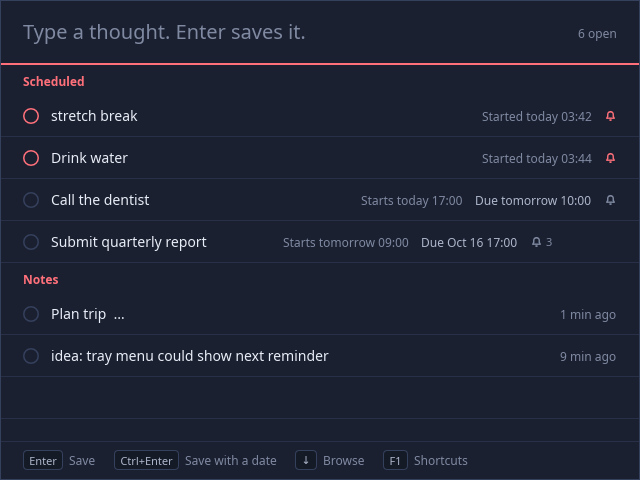
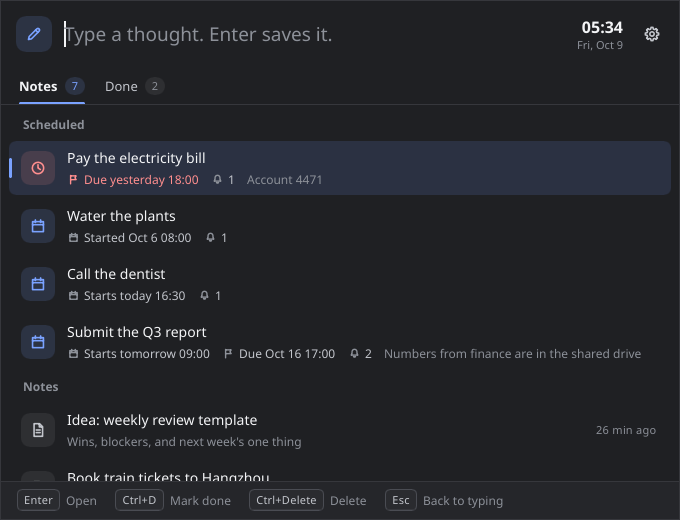
Update README and screenshots for the redesign

diff --git a/README.md b/README.md
@@ -10,29 +10,39 @@ about 25 MB of memory while it waits, and no GPU required.
 ## What it does
 
 - **One key from anywhere.** `Ctrl+Alt+Shift+N` (⌘⌥⇧N on macOS) opens Wisp with
-  the cursor already in the input. Press it again, or `Esc`, to hide it. The
-  window also hides when you click elsewhere (you can turn that off).
-- **Type and go.** `Enter` saves the note. `Shift+Enter` adds a line. What you
-  type also filters your notes, so related ones show up as you write.
-- **Dates and reminders.** `Ctrl+Enter` saves and opens the note's details, where
-  you can type a start and a due time in plain words ("tomorrow 9am", "fri 17:00",
-  "+30m", "明天下午3点") and add reminders:
+  the cursor already in the input, like Flow Launcher. Press it again, or `Esc`,
+  to hide it. The window also hides when you click elsewhere (you can turn that off).
+- **Type and go.** `Enter` saves the note. `Shift+Enter` adds a line: the first
+  line becomes the title, the rest its notes. What you type also filters your
+  notes, so related ones show up as you write.
+- **Notes, dates and reminders.** `Ctrl+Enter` saves and opens the note, with a
+  multi-line **Notes** field, a start and a due time typed in plain words
+  ("tomorrow 9am", "fri 17:00", "+30m", "明天下午3点") and reminders:
   - at the start, *N* minutes before or after the start
   - *N* minutes before the due time, or at the due time
   - every day from the start until the note is done (at the start's time of day
     or a time you pick)
-- **Done means archived.** `Ctrl+D` marks a note done and moves it to the archive
+
+  Reminders follow the start or due time, so they can be added once one is set.
+  `Delete` on a reminder (or `Ctrl+Shift+R` anywhere in the note) removes it.
+  `Esc` always gets you out: anything that can't be saved is explained, and a
+  second `Esc` saves the rest.
+- **Done means archived.** `Ctrl+D` marks a note done and moves it to the Done tab
   (`Ctrl+2`). Nothing is deleted unless you ask, and `Ctrl+Z` undoes the last
   change.
-- **Lives in the tray** and starts with the computer (switchable in Settings).
-- **Every action has a key**, and every shortcut can be changed in Settings
-  (`Ctrl+,`): select a row, press `Enter`, press the new combination. Any
-  combination of Ctrl, Alt, Shift and Super/Win/⌘ works; clashes are caught.
+- **Lives in the tray** and starts with the computer.
+- **Settings in their own window** (the gear button, `Ctrl+,`, the tray menu, or
+  `wisp --settings`), organised into General, Hotkeys, Appearance and About.
+  Every shortcut can be changed there: select it, press `Enter`, press the new
+  combination. Any combination of Ctrl, Alt, Shift and Super/Win/⌘ works; clashes
+  are caught.
 - Light and dark themes, following the system by default.
 
-| Editing a note | Dark |
+| Editing a note | Settings |
 | --- | --- |
-| ![Editor](docs/editor.png) | ![Dark](docs/dark.png) |
+| ![Editor](docs/editor.png) | ![Settings](docs/settings.png) |
+
+![Dark](docs/dark.png)
 
 ## Keys
 
@@ -41,19 +51,24 @@ Press `F1` in the app for the full list, which shows your own shortcuts.
 | Where | Key | Does |
 | --- | --- | --- |
 | Anywhere | `Ctrl+Alt+Shift+N` | Open or hide Wisp |
-| Writing | `Enter` / `Shift+Enter` | Save the note / new line |
+| Writing | `Enter` / `Shift+Enter` | Save the note / new line (later lines become notes) |
 | | `Ctrl+Enter` | Save, then add dates and reminders |
 | | `Esc` | Hide (the text you typed stays for next time) |
 | Your notes | `↓` `↑` `Tab` | Move through the list (`Esc` returns to typing) |
 | | `Enter` or `Ctrl+E` | Open the selected note |
-| | `Ctrl+D` | Mark done, or bring back from the archive |
+| | `Ctrl+D` | Mark done, or bring back from Done |
 | | `Ctrl+Delete` | Delete |
 | | `Ctrl+Z` | Undo |
-| | `Ctrl+1` / `Ctrl+2` | Open notes / done notes |
-| Editing | `Tab` / `Shift+Tab` | Next / previous field |
-| | `Esc`, or `Enter` in a date field | Save and close |
+| | `Ctrl+1` / `Ctrl+2` | Notes tab / Done tab |
+| Editing | `Enter` in the title | Go to the notes |
+| | `Tab` / `Shift+Tab` | Next / previous field |
+| | `Esc`, or `Enter` in a date field | Save and close (`Esc` again saves what's valid) |
 | | `Ctrl+R` | Add a reminder |
-| | `←` `→` on a reminder | Change its type (`Delete` removes it) |
+| | `←` `→` / `Delete` on a reminder | Change its type / remove it |
+| | `Ctrl+Shift+R` | Remove the reminder you're on, or the last one |
+| Settings | `↑` `↓`, `Enter`, `←` `→` | Move, change, flip switches and pick the theme |
+| | `Backspace` on a shortcut | Restore its default |
+| | `Tab` / `Esc` | Back to the page list (`Esc` there closes) |
 | Wisp | `Ctrl+,` / `F1` / `Ctrl+Q` | Settings / shortcuts / quit |
 
 On macOS, `Ctrl` in this table is ⌘.
@@ -87,10 +102,11 @@ The first start of a release build registers Wisp to start with the computer
 ### Command line
 
 ```
-wisp            open Wisp, starting it if needed
-wisp --hidden   start in the tray without opening the window
-wisp --toggle   open or hide the running Wisp
-wisp --quit     quit the running Wisp
+wisp              open Wisp, starting it if needed
+wisp --hidden     start in the tray without opening the window
+wisp --toggle     open or hide the running Wisp
+wisp --settings   open the settings window
+wisp --quit       quit the running Wisp
 ```
 
 Only one Wisp runs per data folder; later launches pass their command to it.
@@ -106,7 +122,9 @@ Two JSON files, written atomically on every change:
 | Linux | `~/.local/share/Wisp/` |
 
 `notes.json` holds the notes and `settings.json` the settings. If `notes.json`
-can't be read, it's moved aside (never overwritten) and Wisp says so.
+can't be read, it's moved aside (never overwritten) and Wisp says so. Files from
+before notes had their own field are converted when loaded: everything after
+a note's first line becomes its notes.
 
 **Portable mode:** create a folder named `wisp-data` next to the executable and
 everything is stored there instead (start-with-computer stays off). The
@@ -114,6 +132,9 @@ everything is stored there instead (start-with-computer stays off). The
 
 ## Platform notes
 
+- **Windows**: the launcher has no taskbar button; on Windows 11 it gets rounded
+  corners and a shadow. Shortcuts also work while a Chinese or Japanese input
+  method is active (full-width punctuation such as `，` counts as `,`).
 - **Linux, X11**: everything works as described.
 - **Linux, Wayland**: Wisp runs through XWayland. Wayland doesn't let apps grab
   keys system-wide, so the summon key only works while an X11 window has focus.
@@ -130,10 +151,16 @@ everything is stored there instead (start-with-computer stays off). The
 ## Project layout
 
 ```
-ui/app.slint      the whole UI: list, editor, settings, help, tray menu
-src/main.rs       start-up: single instance, hotkey, tray, timers
-src/app.rs        the controller: keys, list, editor, settings, undo, reminders
-src/model.rs      notes, reminder rules and the JSON store
+ui/app.slint          what Rust sees, and the tray menu
+ui/launcher.slint     the launcher: notes list, editor, shortcut list
+ui/settings.slint     the settings window
+ui/theme.slint        colours, sizes and the icon set
+ui/widgets.slint      shared pieces: keycaps, tiles, cards, inputs, switches
+src/main.rs           start-up: single instance, hotkey, tray, timers
+src/app.rs            the controller: windows, keys, list, undo, reminders
+src/app/editor.rs     the note editor
+src/app/settings.rs   the settings window's pages and keys
+src/model.rs          notes, reminder rules and the JSON store
 src/dates.rs      date/time parsing and labels
 src/shortcuts.rs  key combinations ↔ text ↔ system hotkeys
 src/config.rs     settings and default shortcuts
